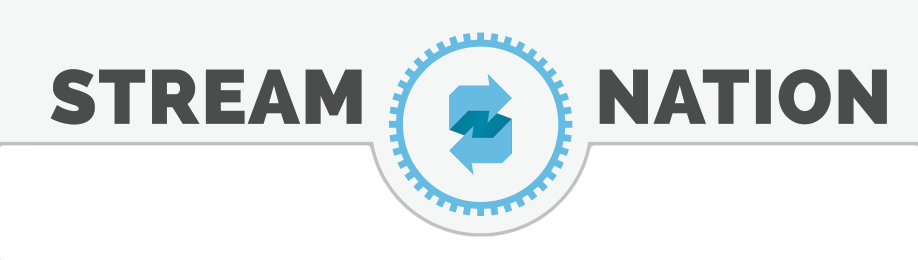
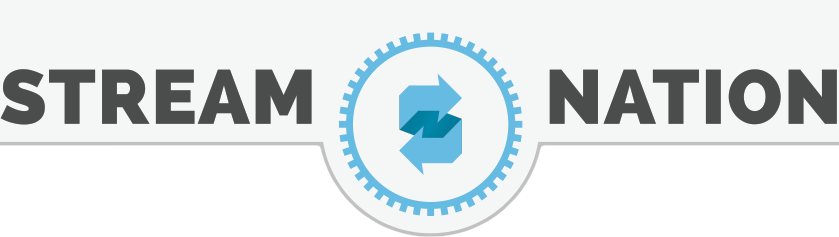
update colors

Changed region(s): [[0.0, 0.1181, 1.0, 1.0]]

diff --git a/css/style.css b/css/style.css
@@ -130,7 +130,7 @@ html {
   font-size: 16px;
   line-height: 24px;
   font-family: "Georgia", serif;
-  color: #332222;
+  color: #4b4d4d;
   padding-top: 72px; }
 
 /* line 23, ../sass/_base.scss */
@@ -154,13 +154,13 @@ h1 {
 
 /* line 64, ../sass/_base.scss */
 #secure, #share, .page-content {
-  background-image: url('../img/bg/kindajean_@2x.png?1360805205');
+  background-image: url('../img/bg/kindajean.png?1360805205');
   background-size: 147px 147px; }
 
 /* line 69, ../sass/_base.scss */
 .home-section, .page-header, .page-content {
   padding: 72px 0 48px;
-  border-bottom: 2px solid #cccccc; }
+  border-bottom: 2px solid #c1c1c1; }
 
 /* line 74, ../sass/_base.scss */
 .grid-block, .home-block {
@@ -217,7 +217,7 @@ h1 {
   height: 96px;
   z-index: 10;
   background-color: #f5f6f6;
-  border-bottom: 2px solid #cccccc;
+  border-bottom: 2px solid #c1c1c1;
   -webkit-transition: height 0.5s;
   -moz-transition: height 0.5s;
   -o-transition: height 0.5s;
@@ -237,16 +237,19 @@ h1 {
   /* line 20, ../sass/_header.scss */
   .site-header:before {
     content: "";
-    background-color: #6699cc;
+    background-color: #65bbe2;
     height: 12px;
     display: block;
-    border-bottom: 4px solid #332222; }
+    border-bottom: 4px solid #4b4d4d; }
 
 /* line 29, ../sass/_header.scss */
 .header-logo {
   float: left; }
+  /* line 31, ../sass/_header.scss */
+  .header-logo img {
+    height: 90px; }
 
-/* line 33, ../sass/_header.scss */
+/* line 34, ../sass/_header.scss */
 .site-nav {
   margin-top: 24px;
   font-weight: lighter;
@@ -255,18 +258,18 @@ h1 {
   text-transform: uppercase;
   display: none; }
   @media (min-width: 900px) {
-    /* line 33, ../sass/_header.scss */
+    /* line 34, ../sass/_header.scss */
     .site-nav {
       display: block; } }
-  /* line 43, ../sass/_header.scss */
+  /* line 44, ../sass/_header.scss */
   .site-nav a {
     display: inline-block;
     padding: 0 2em 10px;
     line-height: 1; }
-    /* line 47, ../sass/_header.scss */
+    /* line 48, ../sass/_header.scss */
     .site-nav a.current {
-      color: #6699cc;
-      border-bottom: 2px solid #332222; }
+      color: #65bbe2;
+      border-bottom: 2px solid #4b4d4d; }
 
 /* line 2, ../sass/_front_page.scss */
 .page-nav {
@@ -307,7 +310,7 @@ h1 {
   .section-header h1 {
     font-size: 40.8px;
     padding-bottom: 6px;
-    border-bottom: 1px solid #332222;
+    border-bottom: 1px solid #4b4d4d;
     margin-bottom: 4px; }
     /* line 44, ../sass/_front_page.scss */
     .section-header h1:after {
@@ -322,7 +325,7 @@ h1 {
     padding-top: 8px;
     line-height: 24px;
     font-style: italic;
-    border-top: 1px dotted #332222; }
+    border-top: 1px dotted #4b4d4d; }
 
 @media (min-width: 500px) {
   /* line 66, ../sass/_front_page.scss */
@@ -335,7 +338,7 @@ h1 {
   width: 33%;
   top: 0;
   left: 33%;
-  border-top: 1px solid #332222; }
+  border-top: 1px solid #4b4d4d; }
   @media (min-width: 900px) {
     /* line 72, ../sass/_front_page.scss */
     .home-block:before {
@@ -343,7 +346,7 @@ h1 {
       height: 33%;
       top: 33%;
       left: 0;
-      border-left: 1px solid #332222; } }
+      border-left: 1px solid #4b4d4d; } }
 /* line 87, ../sass/_front_page.scss */
 .home-block:first-child:before {
   display: none; }
@@ -356,7 +359,7 @@ h1 {
   font-size: 24px;
   font-style: italic;
   color: white;
-  background-color: #6699cc;
+  background-color: #65bbe2;
   padding: 12px 24px 12px 10px;
   -webkit-transform: translateX(120%);
   -moz-transform: translateX(120%);
@@ -376,11 +379,11 @@ h1 {
   /* line 109, ../sass/_front_page.scss */
   .banner:before {
     top: 0;
-    border-top: 24px solid #6699cc; }
+    border-top: 24px solid #65bbe2; }
   /* line 113, ../sass/_front_page.scss */
   .banner:after {
     bottom: 0;
-    border-bottom: 24px solid #6699cc; }
+    border-bottom: 24px solid #65bbe2; }
 
 /* line 119, ../sass/_front_page.scss */
 .current .banner {
@@ -1096,7 +1099,7 @@ h1 {
   /* line 23, ../sass/_footer.scss */
   .footer-form input[type="submit"] {
     border: none;
-    background-color: #6699cc;
+    background-color: #65bbe2;
     color: white;
     padding: 0 10px;
     font-family: "ralewayextrabold", "Comic Sans MS", sans-serif;
@@ -1110,7 +1113,7 @@ h1 {
 /* line 39, ../sass/_footer.scss */
 .footer-legal {
   clear: both;
-  border-top: 2px solid #cccccc;
+  border-top: 2px solid #c1c1c1;
   font-family: sans-serif;
   text-transform: uppercase;
   font-weight: lighter;

diff --git a/sass/style.scss b/sass/style.scss
@@ -18,11 +18,11 @@ $body-font: "Georgia", serif;
 $header-font: "ralewayextrabold", 'Comic Sans MS', sans-serif;
 $light-font: sans-serif;
 
-$text-color: #322;
-$blue: #69c;
+$text-color: #4b4d4d;
+$blue: #65bbe2;
 $yellow: #ff6;
 $green: #6f6;
-$light-border: #ccc;
+$light-border: #c1c1c1;
 $header-light: #f5f6f6;
 $footer-dark: #444;
 $translucent: rgba(255,255,255,.8);

diff --git a/sass/_base.scss b/sass/_base.scss
@@ -62,7 +62,7 @@ h1{
 }
 
 %jean-background {
-  background-image: image-url('bg/kindajean_@2x.png');
+  background-image: image-url('bg/kindajean.png');
   background-size: 147px 147px;
 }
 

diff --git a/sass/_header.scss b/sass/_header.scss
@@ -28,6 +28,7 @@
 
 .header-logo{
   float: left;
+  img{ height: 90px; }
 }
 
 .site-nav{

diff --git a/index.php b/index.php
@@ -1,11 +1,11 @@
 <?php require 'header.php' ?>
 
-<nav class="page-nav">
+<!-- <nav class="page-nav">
   <a id="prev-section" href="#" title="previous section"></a>
   <a id="next-section" href="#" title="next section"></a>
   <a id="back-to-top" href="#home-section" title="back to top"></a>
 </nav>
-
+ -->
 <section class="home-section" id="hero">
   <video class="background-video" autoplay loop>
     <source src="video/video_loop_320x180.mp4" type="video/mp4" />
@@ -72,7 +72,6 @@
       tempor incididunt ut labore et dolore magna aliqua.</p>
     </div>
   </div>
-  <a class="banner" href="#">Sign Up</a>
 </section>
 
 <section class="home-section" id="access">
@@ -107,7 +106,6 @@
       tempor incididunt ut labore et dolore magna aliqua.</p>
     </div>
   </div>
-  <a class="banner" href="#">Sign Up</a>
 </section>
 
 <section class="home-section" id="share">
@@ -154,7 +152,6 @@
       tempor incididunt ut labore et dolore magna aliqua.</p>
     </div>
   </div>
-  <a class="banner" href="#">Sign Up</a>
 </section>
 
 <?php require 'footer.php' ?>

diff --git a/header.php b/header.php
@@ -27,7 +27,7 @@
 <![endif]-->
 <header class="site-header">
   <div class="container">
-    <a href="index.php" class="header-logo"><img src="img/header.png" alt="Stream Nation" height="100" width="353"></a>
+    <a href="index.php" class="header-logo"><img src="img/header.png" alt="Stream Nation"></a>
     <nav class="site-nav">
       <a href="index.php" class="<?php is_current("index.php") ?>">Home</a>
       <a href="features.php" class="<?php is_current("features.php") ?>">Features</a>
